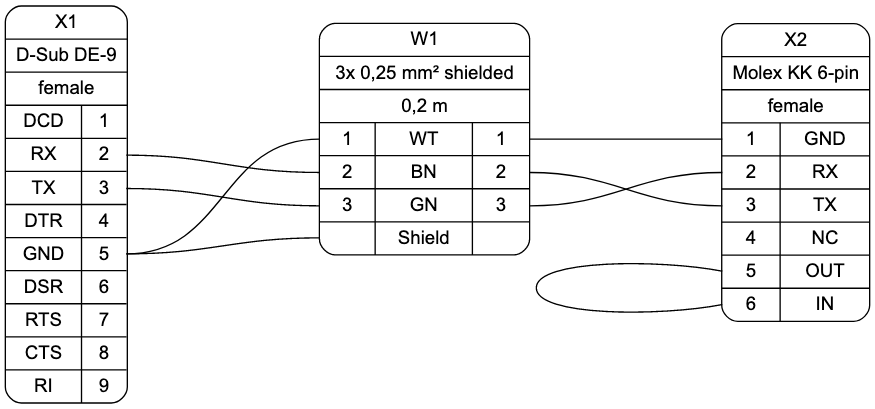
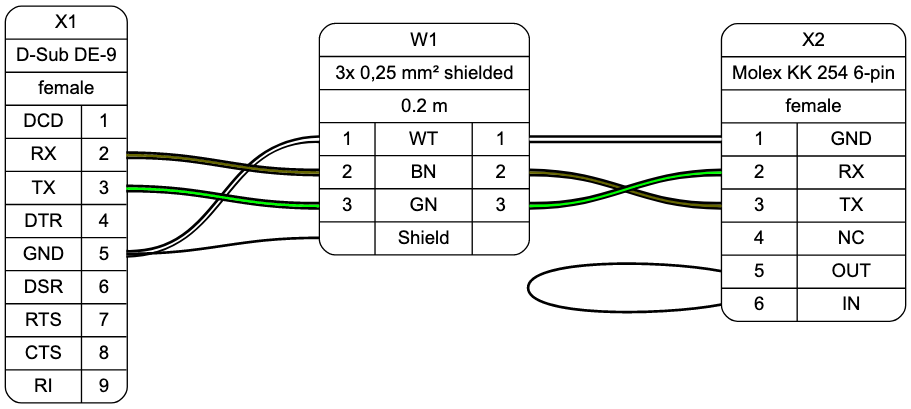
Add wire color to example1

diff --git a/readme.md b/readme.md
@@ -72,11 +72,13 @@ GraphViz code generated by parser:
 
         W1[label="W1 | 3x 0,25 mm² shielded | 0.2 m | {{<w1i>1|<w2i>2|<w3i>3|<wsi>}|{WT|BN|GN|Shield}|{<w1o>1|<w2o>2|<w3o>3|<wsi>}}}"];
 
-        X1:p5 -> W1:w1i; W1:w1o -> X2:p1;
-        X1:p2 -> W1:w2i; W1:w2o -> X2:p3;
-        X1:p3 -> W1:w3i; W1:w3o -> X2:p2;
-        X1:p5 -> W1:wsi;
-        X2:p5:w -> X2:p6:w
+        {edge[style=bold]
+            {edge[color="#000000:#ffffff:#000000"] X1:p5 -> W1:w1i; W1:w1o -> X2:p1; }
+            {edge[color="#000000:#666600:#000000"] X1:p2 -> W1:w2i; W1:w2o -> X2:p3; }
+            {edge[color="#000000:#00ff00:#000000"] X1:p3 -> W1:w3i; W1:w3o -> X2:p2; }
+            X1:p5 -> W1:wsi;
+            X2:p5:w -> X2:p6:w;
+        }
     }
 
 ## Status
